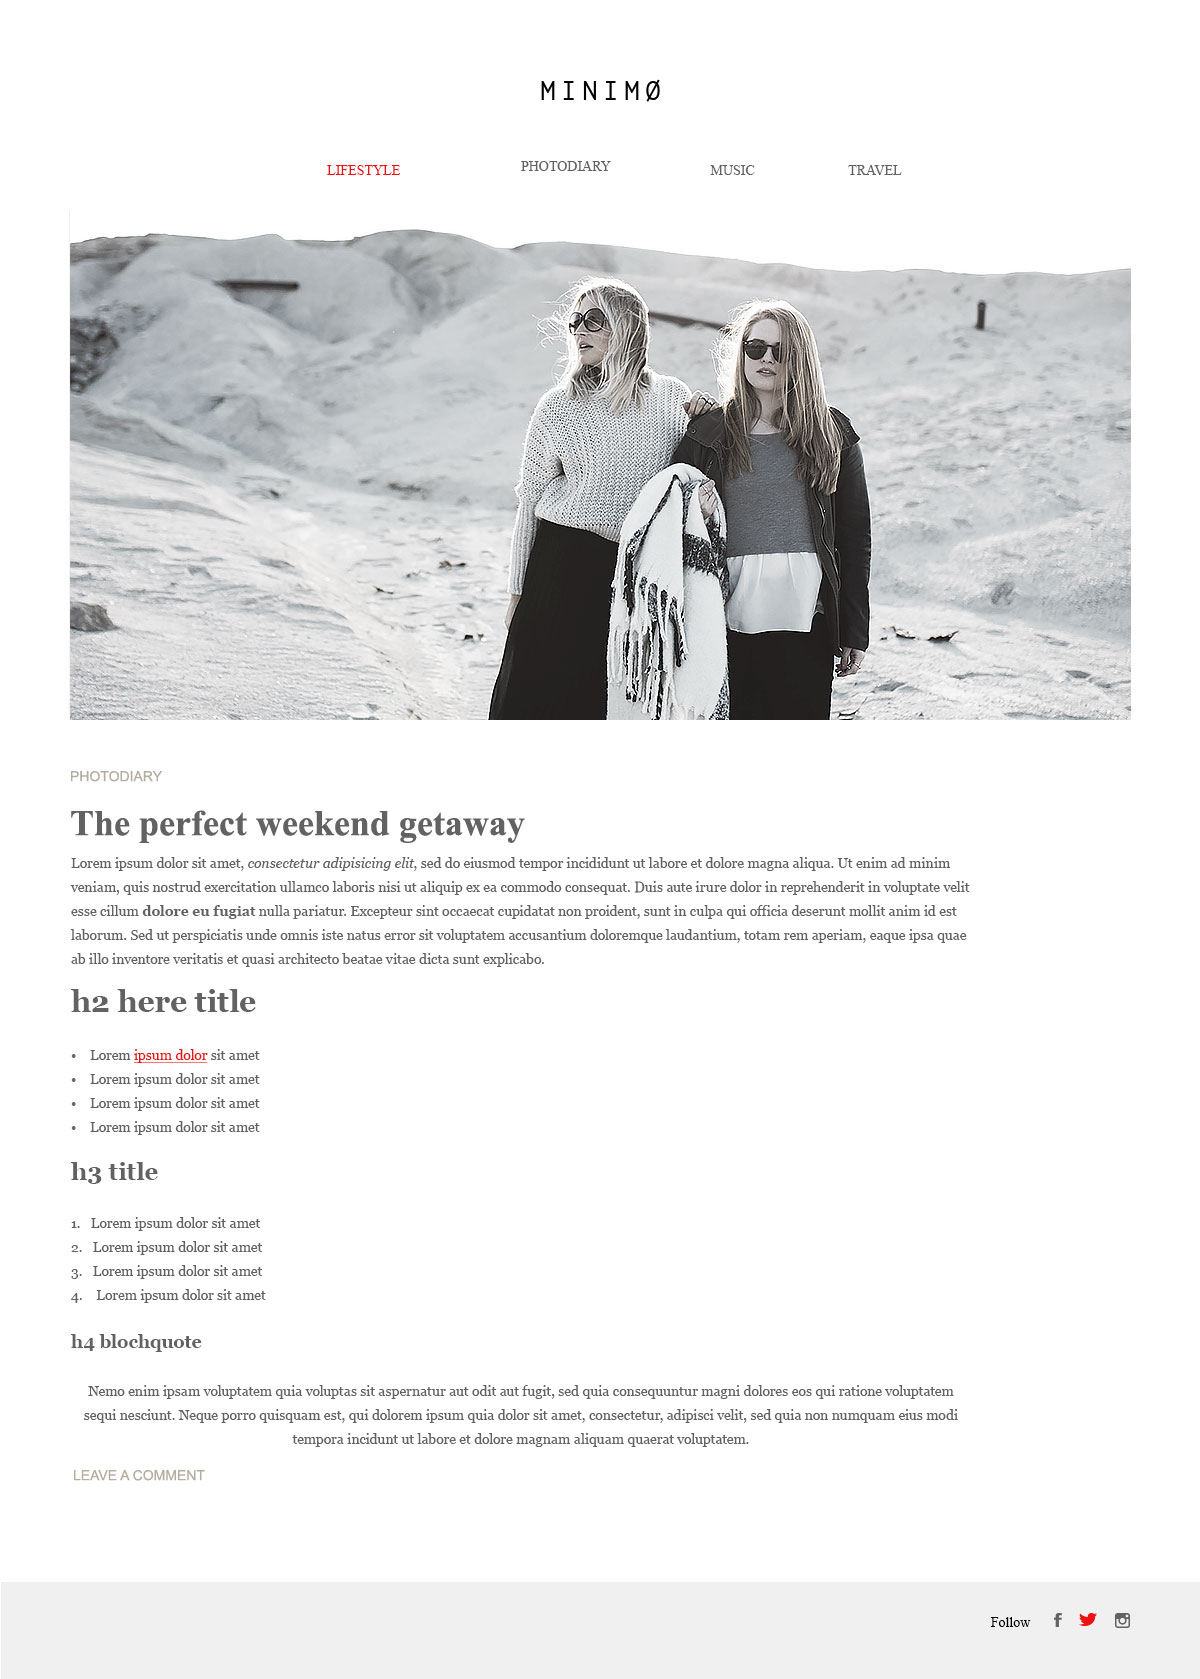
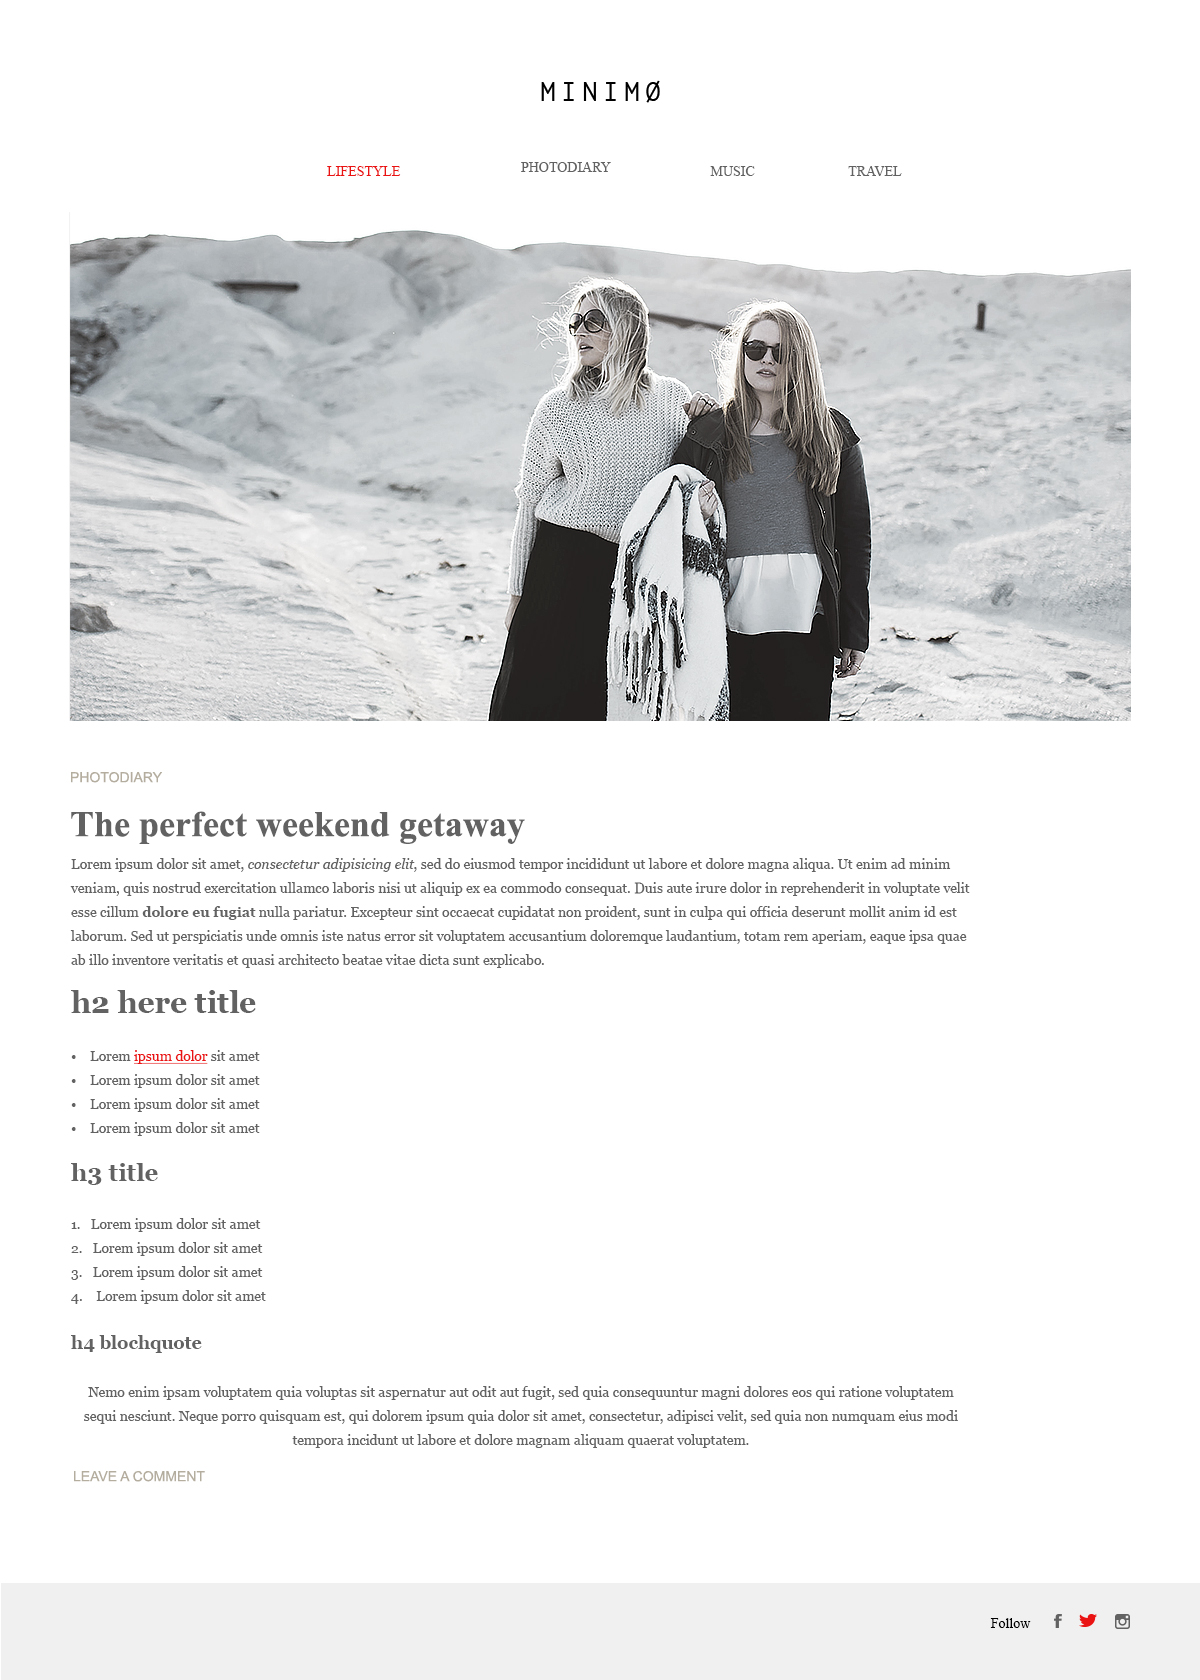
Check html validation and Pixel perfect

diff --git a/minimo/marcup/css/main.css b/minimo/marcup/css/main.css
@@ -6,7 +6,7 @@ body{
 	background: #fff;
 	color: #626262;
 	margin: 0;
-	font: 14px/1.7 Georgia, serif;
+	font: 400 14px/1.7 Georgia, serif;
 }
 
 img{
@@ -63,12 +63,12 @@ a:hover{
 .header{
 	width: 1062px;
 	margin: 0 auto;
-	padding: 80px 0 35px;
+	padding: 80px 0 29px;
 }
 
 .logo{
 	width: 119px;
-	margin: 0 auto 50px;
+	margin: 0 auto 51px;
 
 }
 .nav ul{
@@ -102,22 +102,24 @@ a:hover{
 
 .main-img{
 	display: block;
-	margin: 0 0 40px;
+	margin: 0 0 44px;
 }
 
 .category,
 .link{
 	display: block;
-	color: #b4ad9e;
-	font-family: Arial, Helvetica, sans-serif; 
-	margin: 0 0 20px;
-	text-transform: uppercase;
+    color: #b4ad9e;
+    font-family: Arial, Helvetica, sans-serif;
+    padding: 0 0 0 1px;
+    margin: 0 0 4px;
+    text-transform: uppercase;
 }
 
 .link{
-	margin: 0 0 0px;
+	margin: 0 0 97px;
 	display: inline-block;
 	text-decoration: none;
+	padding: 0 0 0 3px;
 }
 
 .link:hover{
@@ -126,16 +128,19 @@ a:hover{
 
 .main-article h1{
 	font-size: 36px;
-	margin: 0 0 20px;
+	font-family: "Times New Roman", Times, serif;
+	margin: 0;
+    padding: 0 0 0 1px;
 }
 
 .main-article p{
-	margin: 0 0 24
+	margin: 0 0 10px;
+    padding: 0 145px 0 0;
 }
 
 .main-article h2{
 	font-size: 30px;
-	margin: 0 0 20px;
+	margin: 0 0 16px;
 }
 
 .main-article h3{
@@ -145,17 +150,17 @@ a:hover{
 
 .main-article h4{
 	font-size: 18px;
-	margin: 0 0 20px;
+	margin: 0 0 22px;
 }
 
 .main-article blockquote{
-	margin: 0 0 20px;
+	margin: 0 0 16px 0;
 	text-align: center;
 }
 
 .main-article ul{
 	padding: 0;
-	margin: 0 0 20px;
+	margin: 0 0 16px;
 	list-style: none;
 }
 
@@ -174,6 +179,12 @@ a:hover{
 	border-radius: 50%;
 	vertical-align: middle;
 }
+
+.main-article ol{
+	margin: 0 0 23px;
+	padding-inline-start: 20px;
+}
+
 
 
 .footer{

diff --git a/minimo/marcup/index.html b/minimo/marcup/index.html
@@ -55,7 +55,6 @@
 						<li><a class="icon-twitter" href=""></a></li>
 						<li><a class="icon-instagram" href=""></a></li>
 					</ul>
-
 				</div>
 			</footer>
 		</div>
